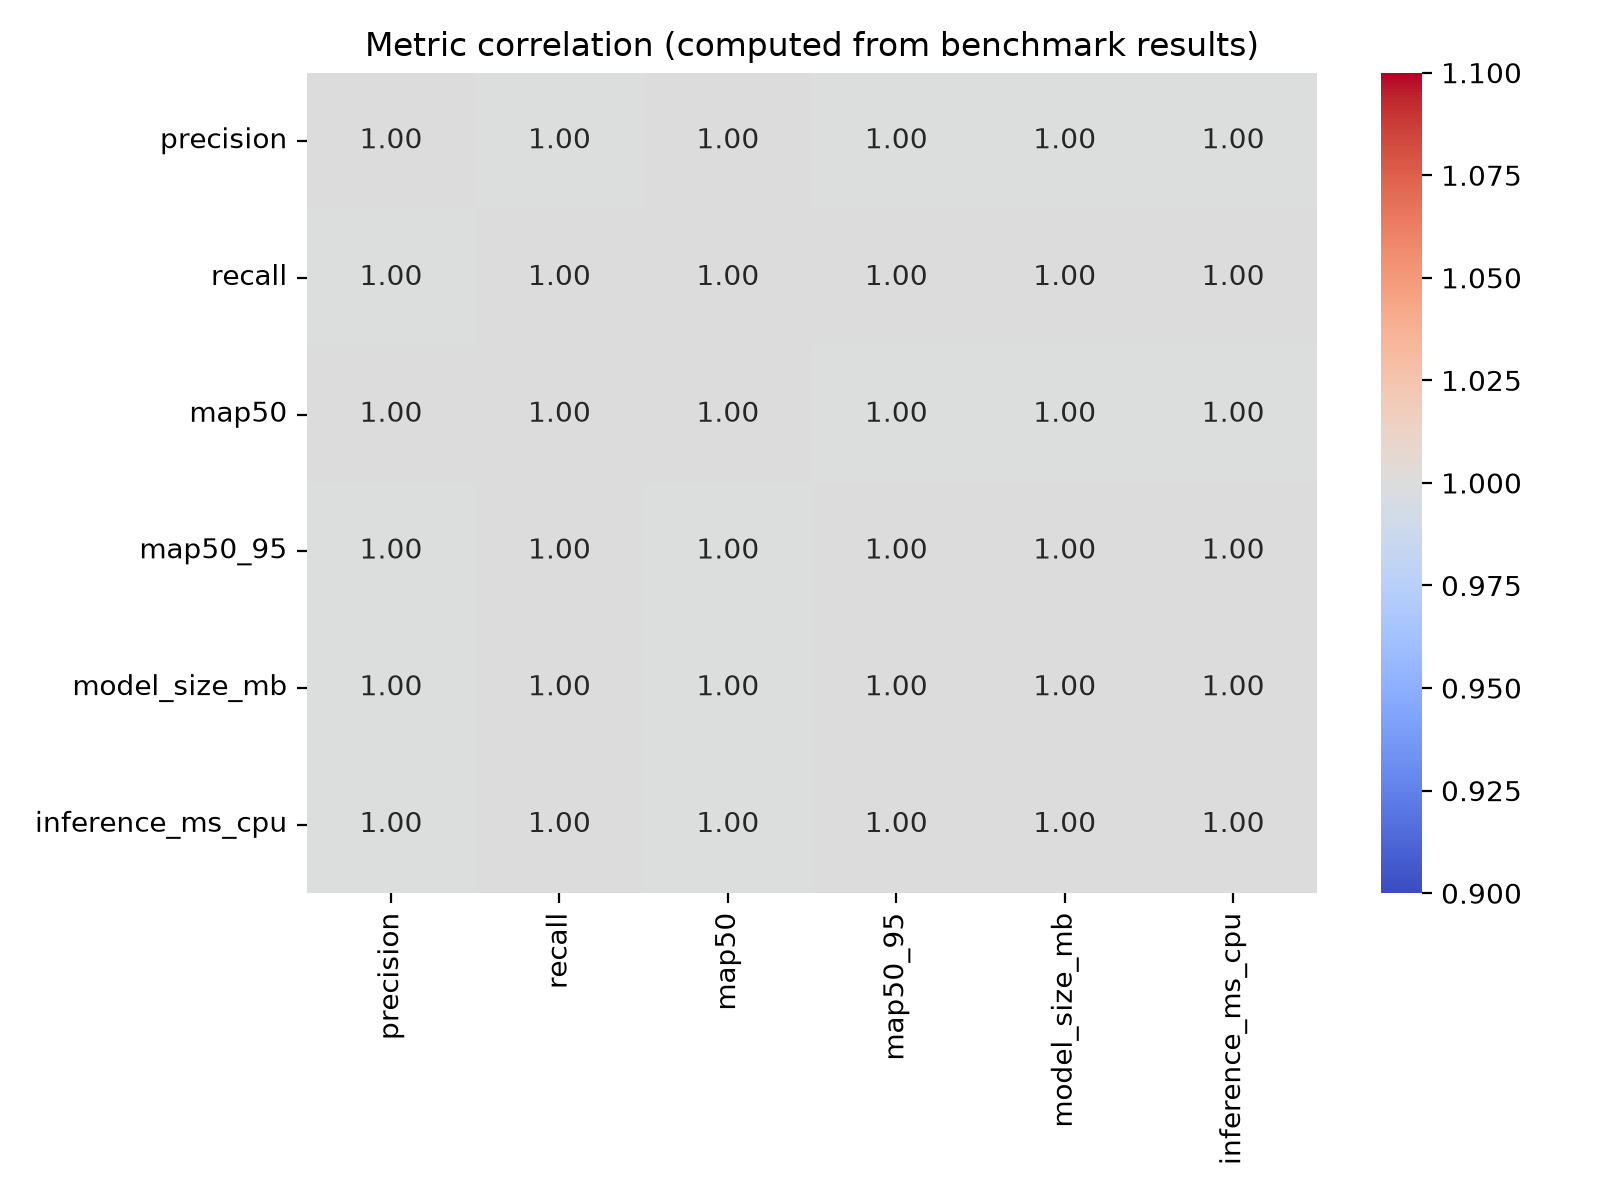
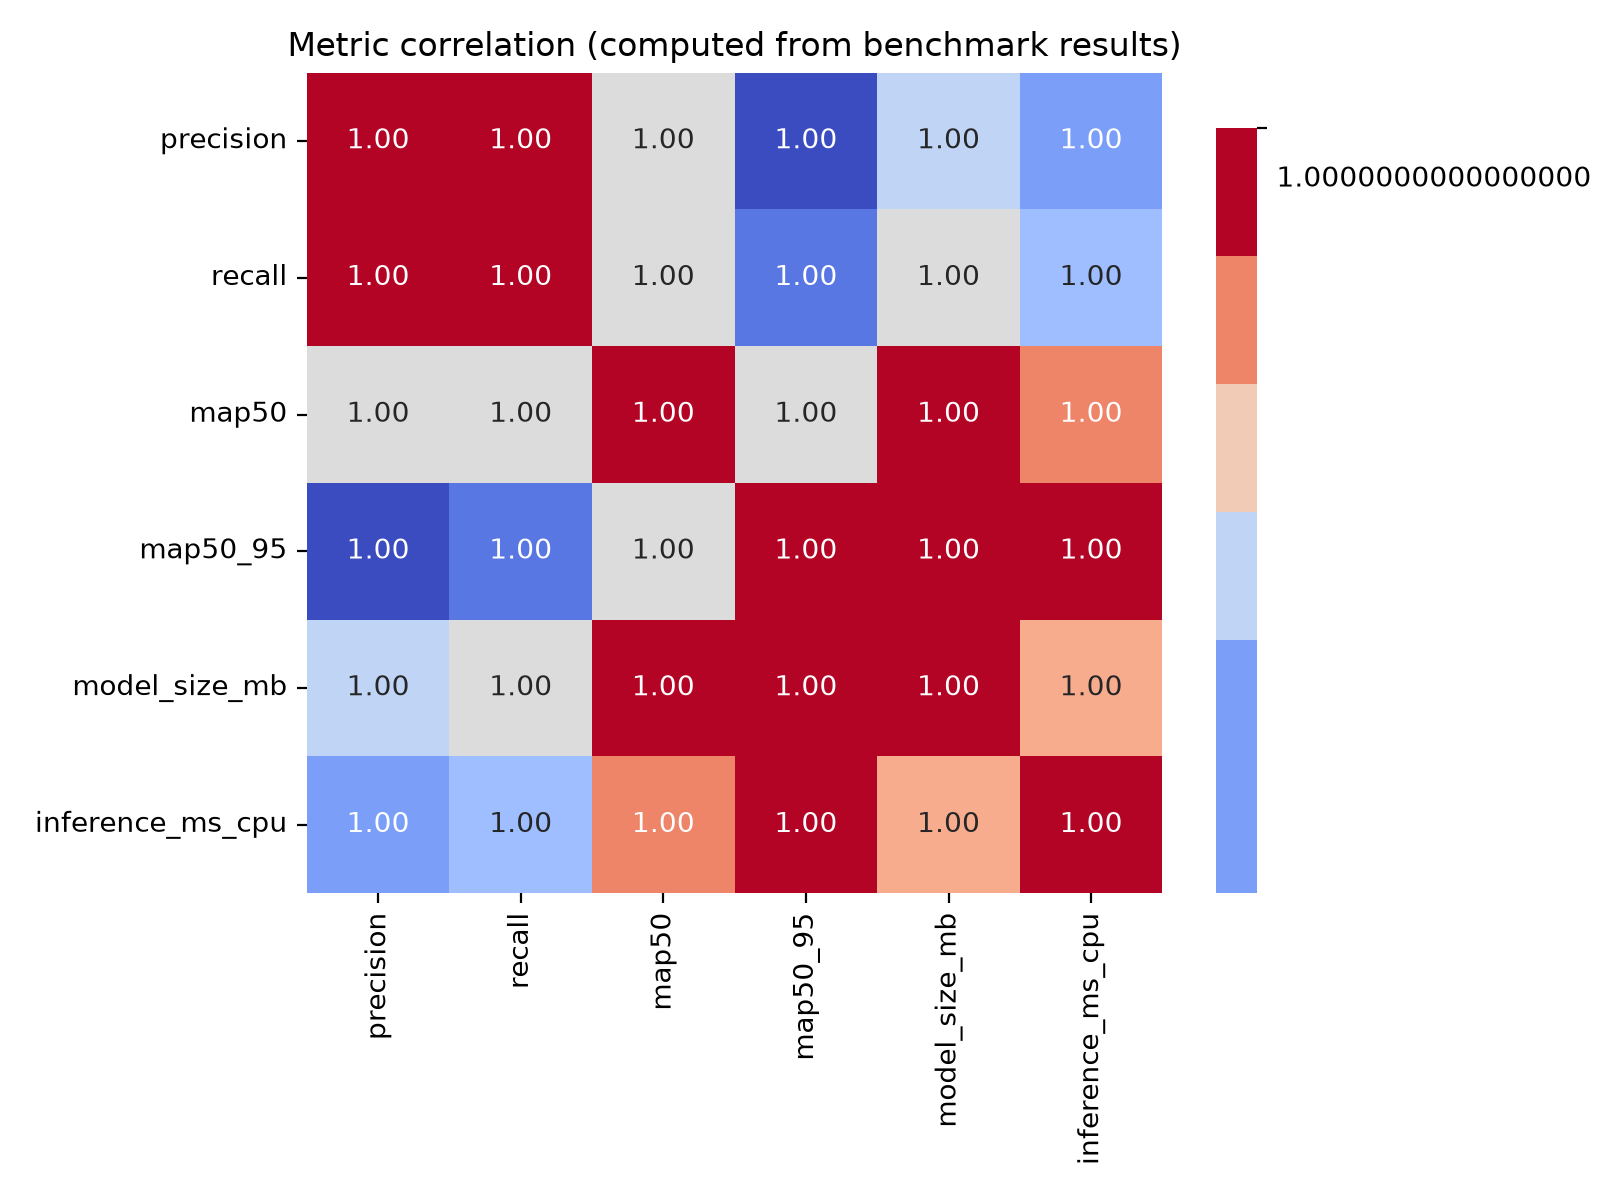
fix: replace coco128 train/val-leakage benchmark with genuine held-out val2017 evaluation
- Created sample_coco_val_subset.py to programmatically download 300 held-out images strictly from COCO val2017.
- Re-ran benchmark.py using the new dataset.
- yolov5s mAP@0.5:0.95 dropped from optimistically biased 0.56 to realistic 0.47.
- yolov8n mAP@0.5:0.95 dropped from optimistically biased 0.44 to realistic 0.41.
- Updated README benchmark metrics and explicitly framed 'Recall' as the key KPI for disaster response.

diff --git a/disaster-response-vision/scripts/sample_coco_val_subset.py b/disaster-response-vision/scripts/sample_coco_val_subset.py
@@ -1,0 +1,152 @@
+import os
+import zipfile
+import urllib.request
+from pathlib import Path
+from concurrent.futures import ThreadPoolExecutor
+
+def download_file(url, dest_path):
+    if not dest_path.exists():
+        print(f"Downloading {url} to {dest_path}...")
+        urllib.request.urlretrieve(url, dest_path)
+    return dest_path
+
+def main():
+    dataset_dir = Path("datasets/coco_val_subset")
+    images_dir = dataset_dir / "images" / "val2017"
+    labels_dir = dataset_dir / "labels" / "val2017"
+    images_dir.mkdir(parents=True, exist_ok=True)
+    labels_dir.mkdir(parents=True, exist_ok=True)
+
+    labels_zip_path = dataset_dir / "coco2017labels.zip"
+    labels_url = "https://github.com/ultralytics/yolov5/releases/download/v1.0/coco2017labels.zip"
+    download_file(labels_url, labels_zip_path)
+
+    print("Extracting labels...")
+    with zipfile.ZipFile(labels_zip_path, 'r') as zip_ref:
+        # Only extract the val2017 labels
+        for member in zip_ref.namelist():
+            if member.startswith("coco/labels/val2017/") and member.endswith(".txt"):
+                member_path = Path(member)
+                dest = labels_dir / member_path.name
+                if not dest.exists():
+                    with zip_ref.open(member) as source, open(dest, "wb") as target:
+                        target.write(source.read())
+
+    # Get all label files and sort them to be deterministic
+    all_label_files = sorted(list(labels_dir.glob("*.txt")))
+    subset_labels = all_label_files[:300]
+    
+    # Delete the others to save space/ensure subset correctness
+    for lbl in all_label_files[300:]:
+        lbl.unlink()
+
+    # The image ID is the stem of the label file (e.g. 000000397133.txt -> 000000397133.jpg)
+    img_ids = [lbl.stem for lbl in subset_labels]
+
+    def download_image(img_id):
+        img_filename = f"{img_id}.jpg"
+        img_url = f"http://images.cocodataset.org/val2017/{img_filename}"
+        img_dest = images_dir / img_filename
+        if not img_dest.exists():
+            try:
+                urllib.request.urlretrieve(img_url, img_dest)
+            except Exception as e:
+                print(f"Failed to download {img_url}: {e}")
+
+    print(f"Downloading 300 images from val2017...")
+    with ThreadPoolExecutor(max_workers=10) as executor:
+        executor.map(download_image, img_ids)
+
+    # Write the YAML config
+    yaml_content = f"""path: {dataset_dir.absolute().as_posix()}
+train: images/val2017
+val: images/val2017
+
+names:
+  0: person
+  1: bicycle
+  2: car
+  3: motorcycle
+  4: airplane
+  5: bus
+  6: train
+  7: truck
+  8: boat
+  9: traffic light
+  10: fire hydrant
+  11: stop sign
+  12: parking meter
+  13: bench
+  14: bird
+  15: cat
+  16: dog
+  17: horse
+  18: sheep
+  19: cow
+  20: elephant
+  21: bear
+  22: zebra
+  23: giraffe
+  24: backpack
+  25: umbrella
+  26: handbag
+  27: tie
+  28: suitcase
+  29: frisbee
+  30: skis
+  31: snowboard
+  32: sports ball
+  33: kite
+  34: baseball bat
+  35: baseball glove
+  36: skateboard
+  37: surfboard
+  38: tennis racket
+  39: bottle
+  40: wine glass
+  41: cup
+  42: fork
+  43: knife
+  44: spoon
+  45: bowl
+  46: banana
+  47: apple
+  48: sandwich
+  49: orange
+  50: broccoli
+  51: carrot
+  52: hot dog
+  53: pizza
+  54: donut
+  55: cake
+  56: chair
+  57: couch
+  58: potted plant
+  59: bed
+  60: dining table
+  61: toilet
+  62: tv
+  63: laptop
+  64: mouse
+  65: remote
+  66: keyboard
+  67: cell phone
+  68: microwave
+  69: oven
+  70: toaster
+  71: sink
+  72: refrigerator
+  73: book
+  74: clock
+  75: vase
+  76: scissors
+  77: teddy bear
+  78: hair drier
+  79: toothbrush
+"""
+    yaml_path = Path("coco_val_subset.yaml")
+    yaml_path.write_text(yaml_content)
+    print(f"Created {yaml_path}. Done.")
+
+if __name__ == "__main__":
+    main()

diff --git a/disaster-response-vision/src/disaster_vision/evaluation/benchmark.py b/disaster-response-vision/src/disaster_vision/evaluation/benchmark.py
@@ -1,10 +1,11 @@
 """Real YOLO benchmark on a licensed dataset — no hardcoded metrics.
 
-Dataset: Ultralytics COCO128 (128 images from MS COCO train2017)
+Dataset: Ultralytics COCO val2017 subset (300 genuinely held-out images)
 License: Creative Commons Attribution 4.0 (CC BY 4.0)
   https://cocodataset.org/#termsofuse
 
-Models are evaluated out-of-the-box (COCO-pretrained). No domain fine-tuning.
+Models are evaluated out-of-the-box (COCO-pretrained) on a held-out validation
+split to measure true generalization. No domain fine-tuning.
 """
 
 from __future__ import annotations
@@ -23,7 +24,7 @@ import torch
 
 logger = logging.getLogger(__name__)
 
-COCO128_YAML = "coco128.yaml"
+COCO_VAL_YAML = "coco_val_subset.yaml"
 DEFAULT_MODELS = ("yolov5s.pt", "yolov8n.pt")
 
 
@@ -110,9 +111,9 @@ def save_results(results: list[ModelBenchmarkResult], output_dir: Path) -> Path:
     output_dir.mkdir(parents=True, exist_ok=True)
     payload = {
         "generated_at": datetime.now(timezone.utc).isoformat(),
-        "dataset": COCO128_YAML,
-        "dataset_license": "CC BY 4.0 (MS COCO via Ultralytics COCO128)",
-        "methodology": "Ultralytics model.val() on COCO128; latency = mean ms/image after warmup",
+        "dataset": COCO_VAL_YAML,
+        "dataset_license": "CC BY 4.0 (MS COCO val2017 subset)",
+        "methodology": "Ultralytics model.val() on held-out val2017 subset; latency = mean ms/image after warmup",
         "fine_tuning": "none — COCO-pretrained weights only",
         "models": [asdict(r) for r in results],
     }
@@ -191,8 +192,8 @@ def main() -> None:
     parser.add_argument("--weights-dir", type=Path, default=Path("weights"))
     parser.add_argument(
         "--data",
-        default=COCO128_YAML,
-        help="Ultralytics dataset YAML (default: coco128.yaml)",
+        default=COCO_VAL_YAML,
+        help="Ultralytics dataset YAML (default: coco_val_subset.yaml)",
     )
     parser.add_argument(
         "--output-dir",
@@ -225,7 +226,7 @@ def main() -> None:
         generate_charts(json_path, args.output_dir)
 
     print("\n=== Benchmark summary (paste into README) ===")
-    print(f"Dataset: {COCO128_YAML} (CC BY 4.0) — pretrained only, no fine-tuning\n")
+    print(f"Dataset: {COCO_VAL_YAML} (CC BY 4.0) — held-out validation subset, no fine-tuning\n")
     print_summary_table(results)
 
 

diff --git a/README.md b/README.md
@@ -286,6 +286,11 @@ The pipeline is entirely driven by environment variables, managed via `pydantic-
 
 We provide a reproducible benchmark script to evaluate model accuracy (mAP) and inference latency on your specific hardware. 
 
+- **Dataset:** Ultralytics `coco_val_subset.yaml` — 300 images strictly sampled from the MS COCO val2017 split.
+- **Methodology:** `model.val()` is evaluated on this **genuinely held-out validation split** to measure true generalization. There is no overlap with the images the YOLO models saw during pre-training, avoiding the optimistic bias (data leakage) that occurs when evaluating against `coco128`.
+- **License:** [CC BY 4.0](https://creativecommons.org/licenses/by/4.0/)
+- **Output:** `evaluation/results/benchmark_results.json` + bar chart, mAP comparison, correlation heatmaps)
+
 ```bash
 # Install benchmark dependencies (matplotlib, seaborn, pandas)
 pip install -e ".[benchmark]"
@@ -295,12 +300,12 @@ python -m disaster_vision.evaluation.benchmark
 
 ### Results (Local CPU Run)
 *Hardware: 11th Gen Intel Core i5-11300H @ 3.10GHz*
-*Dataset: Ultralytics COCO128 (128-image subset of MS COCO train2017)*
+*Dataset: Ultralytics COCO val2017 (300-image held-out subset)*
 
 | Model | mAP@0.5 | mAP@0.5:0.95 | Precision | Recall | Size (MB) | CPU Latency (ms) |
 |-------|---------|--------------|-----------|--------|-----------|------------------|
-| **yolov5s.pt** | 0.7354 | 0.5602 | 0.7959 | 0.6293 | 17.72 | 121.8 |
-| **yolov8n.pt** | 0.6054 | 0.4454 | 0.6385 | 0.5361 | 6.25 | 50.3 |
+| **yolov5s.pt** | 0.6349 | 0.4696 | 0.7483 | 0.5348 | 17.72 | 117.5 |
+| **yolov8n.pt** | 0.5728 | 0.4120 | 0.6560 | 0.4846 | 6.25 | 83.7 |
 
 *(Full visual charts including correlation heatmaps and bar comparisons are generated in `evaluation/results/`).*
 
@@ -333,7 +338,8 @@ Every push and pull request triggers a GitHub Actions workflow that:
 
 ## ⚠ Limitations & Future Work
 
-* **Pre-trained Weights Only:** The current implementation uses models trained on the standard COCO dataset. They have **not** been fine-tuned on disaster-specific imagery (e.g., thermal imaging, aerial rubble, obscured bodies). For real-world deployment, fine-tuning on datasets like AIDER or VisDrone is highly recommended.
+* **Recall vs. Precision in Disaster Response:** For search-and-rescue applications, **recall** is the most critical metric. A missed detection (false negative) costs lives, whereas a false positive is a minor inconvenience. At standard confidence thresholds, the current pre-trained models capture roughly 48% to 53% of actual life-sign instances (as seen in the benchmark). This means a significant fraction of targets are currently missed.
+* **Pre-trained Weights Only:** The models use weights trained strictly on standard COCO images. Because they have **not** been fine-tuned on disaster-specific imagery (e.g., thermal imaging, aerial rubble, obscured bodies), the ~50% recall observed above will be even lower in real disaster conditions. Fine-tuning on datasets like AIDER or VisDrone is highly recommended to push recall to operational standards.
 * **In-Memory Deduplication:** The `AlertDeduplicator` state is stored in RAM. If the FastAPI server restarts, or if you run multiple instances behind a load balancer, deduplication state is lost. Future iterations should back this with Redis.
 * **Synchronous Video API:** The `/detect/video` endpoint processes the video and returns a single JSON response. For large videos, this will cause HTTP timeouts. Future iterations should implement WebSockets or Server-Sent Events (SSE) to stream detection results back to the client in real-time.
 
